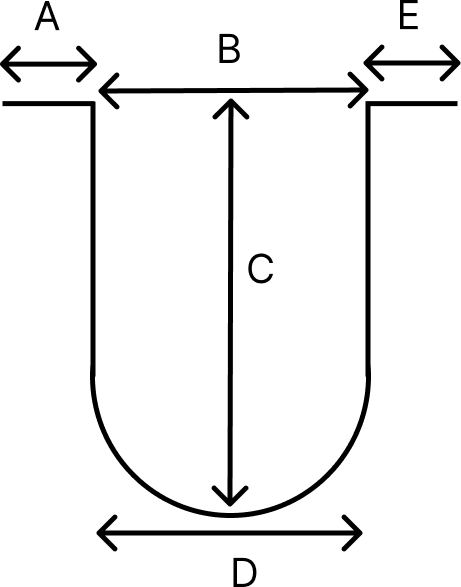
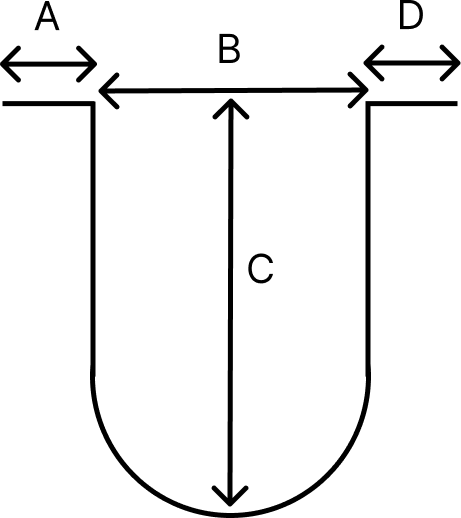
correção de imagem da calandra

diff --git a/app/page.js b/app/page.js
@@ -51,7 +51,6 @@ export default function Home() {
   desenvolvimento_b: 0,
   desenvolvimento_c: 0,
   desenvolvimento_d: 0,
-  desenvolvimento_e: 0,
   desenvolvimento_resultado: 0
  }
 
@@ -110,7 +109,7 @@ const submitD = () => {
 
 const submitE = () => {
   //const desenvolvimento =  3.1415*parseFloat(valor5.desenvolvimento_d)
-  const calc1 = parseFloat(valor5.desenvolvimento_a) + parseFloat(valor5.desenvolvimento_e)
+  const calc1 = parseFloat(valor5.desenvolvimento_a) + parseFloat(valor5.desenvolvimento_d)
   const calc2 = 2*parseFloat(valor5.desenvolvimento_c)
   const calc3 = - parseFloat(valor5.desenvolvimento_b)
   const calc4 = 3.1415*(parseFloat(valor5.desenvolvimento_b)/2)
@@ -360,9 +359,9 @@ const submitE = () => {
               </input>
             </div>
             <div>
-              <label>Medida E: </label>
+              <label>Medida D: </label>
               <input
-              name="desenvolvimento_e" 
+              name="desenvolvimento_d" 
               type={'number'}
               onChange={e => handleChangeE(e)}>
               </input>
